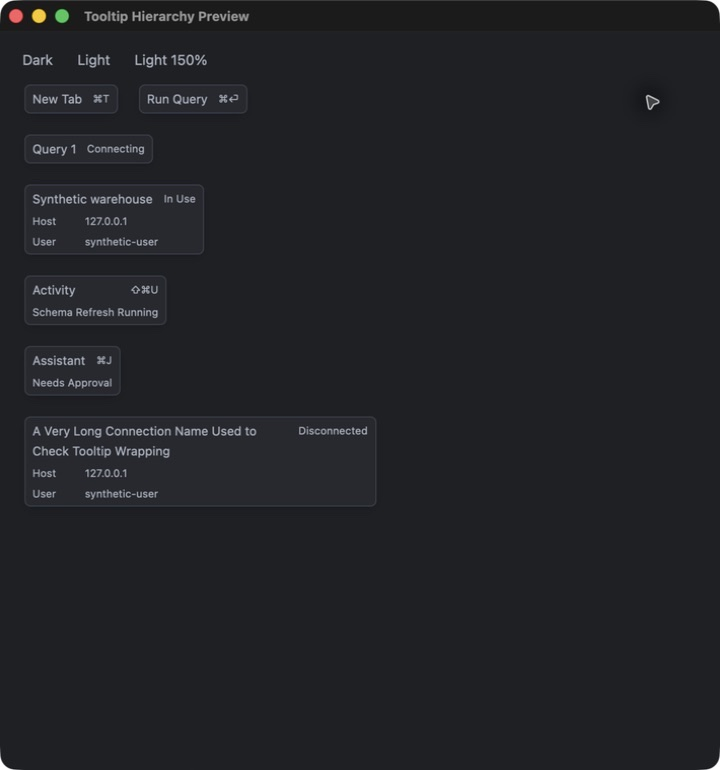
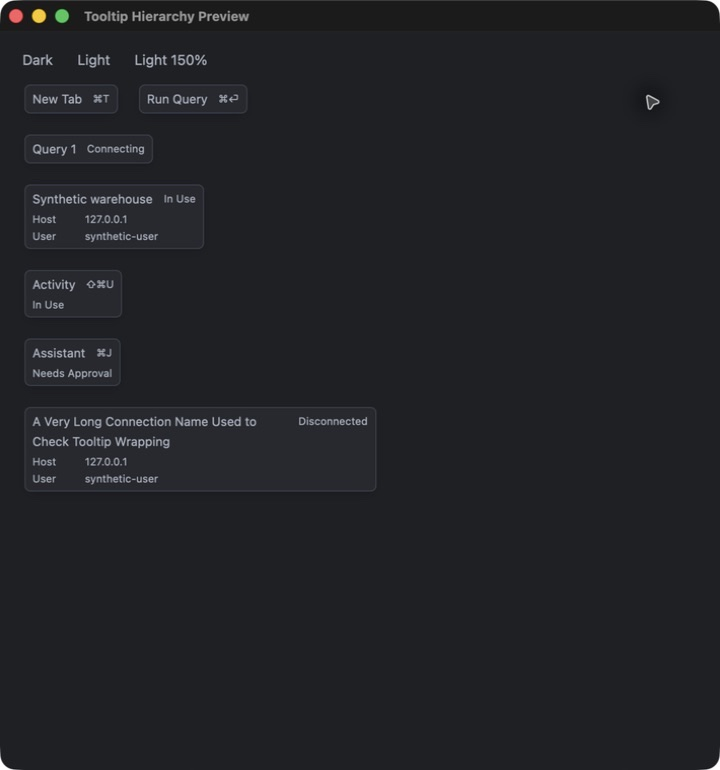
fix(ui): compact tooltips and summarize connections in use

Changed region(s): [[0.0306, 0.2805, 0.3667, 0.6545], [0.3972, 0.5299, 0.5194, 0.561]]

diff --git a/tests/ui/queries.rs b/tests/ui/queries.rs
@@ -58,6 +58,10 @@ fn connecting_dots_and_tooltips_follow_a_failed_session_open(cx: &mut TestAppCon
             label(window, format!("connection-status-{connection}")).as_deref(),
             Some("Connecting warehouse, connecting")
         );
+        assert_eq!(
+            label(window, "toggle-activity").as_deref(),
+            Some("Activity")
+        );
     });
     let hover = |id: String, app: &TestApp, cx: &mut TestAppContext| {
         app.update(cx, |window, cx| window.hover(id, cx));
@@ -130,6 +134,73 @@ fn long_connection_tooltips_align_status_and_fit_at_each_scale_and_theme(cx: &mu
             }
         });
     }
+}
+
+#[gpui_kit::test]
+fn activity_tooltip_summarizes_connections_in_use_and_updates_live(cx: &mut TestAppContext) {
+    use crate::support::assistant::{FakeCodex, REPLY_TIMEOUT};
+    use crate::support::offline_profile;
+    use qrow::model::SavedTab;
+
+    let (directory, codex) = FakeCodex::new();
+    let unused = offline_profile("Unused warehouse");
+    let profile = offline_profile("Assistant warehouse");
+    let connection = profile.id;
+    let tab = SavedTab::new(1, Some(connection));
+    let query = tab.id;
+    let app = TestApp::launch_in(
+        cx,
+        directory,
+        codex.workspace(Workspace {
+            tabs: vec![tab],
+            profiles: vec![profile, unused.clone()],
+            ..Workspace::default()
+        }),
+        MemoryCredentials::default(),
+    );
+    app.open_assistant(cx);
+    app.send(cx, "Title before first reply");
+    app.wait_until(cx, "the held reply", REPLY_TIMEOUT, |_, _| {
+        codex.marked("first-reply-pending")
+    });
+    app.wait_label(cx, "Activity, in use");
+    app.hover_labelled(cx, "Activity, in use");
+    cx.executor().advance_clock(Duration::from_millis(800));
+    app.settle(cx);
+    app.update(cx, |window, cx| {
+        assert_eq!(
+            label(window, "status-tooltip-status").as_deref(),
+            Some("In Use")
+        );
+        assert_connection_dot(window, connection, cx.theme().info);
+        assert_tab_dot(window, query, None);
+        assert_tooltip_header_center(window, cx, "status-tooltip-shortcut");
+    });
+
+    // An error on another connection keeps its count with the work summary.
+    app.qrow
+        .update(cx, |qrow, cx| {
+            qrow.record_activity(
+                unused.id,
+                ActivityEntry::new(Severity::Error, "Synthetic refresh error"),
+                cx,
+            );
+        })
+        .unwrap();
+    app.wait_until(
+        cx,
+        "the unread error and work",
+        REPLY_TIMEOUT,
+        |window, _| {
+            label(window, "status-tooltip-status").as_deref() == Some("1 Unread Error\nIn Use")
+        },
+    );
+
+    // Keep the pointer over Activity as the working connection becomes idle.
+    codex.mark("first-reply-release");
+    app.wait_until(cx, "the finished work", REPLY_TIMEOUT, |window, _| {
+        label(window, "status-tooltip-status").as_deref() == Some("1 Unread Error")
+    });
 }
 
 #[gpui_kit::test]

diff --git a/src/ui/catalog_tree.rs b/src/ui/catalog_tree.rs
@@ -1218,6 +1218,34 @@ impl Qrow {
         );
     }
 
+    /// The status shown by a connection row and summarized by Activity.
+    pub(super) fn connection_dot_status(&self, id: Uuid, cx: &App) -> Option<DotStatus> {
+        let query_status = self
+            .tabs
+            .iter()
+            .filter(|tab| tab.saved.profile == Some(id))
+            .filter_map(|tab| {
+                tab.dot_status().max(
+                    self.settings
+                        .assistant
+                        .enabled
+                        .then(|| self.tab_assistant_status(tab.saved.id))
+                        .flatten()
+                        .and_then(assistant_view::ThreadStatus::dot_status),
+                )
+            })
+            .max();
+        query_status.max(
+            if self.activity.read(cx).activity().unseen_errors_of(id) > 0 {
+                Some(DotStatus::Error)
+            } else if self.catalog.is_refreshing(id) {
+                Some(DotStatus::Working)
+            } else {
+                None
+            },
+        )
+    }
+
     /// The Connections sidebar: its header, the search, and the tree.
     pub(super) fn connections(&self, window: &Window, cx: &mut Context<Self>) -> impl IntoElement {
         let action_size = self.ui_px(STATUS_SLOT_WIDTH);
@@ -1229,29 +1257,7 @@ impl Qrow {
                     .map(|profile| {
                         let id = profile.id;
                         let refresh_error = self.catalog.connection_error(id);
-                        let unseen = self.activity.read(cx).activity().unseen_errors_of(id);
-                        let query_status = self
-                            .tabs
-                            .iter()
-                            .filter(|tab| tab.saved.profile == Some(id))
-                            .filter_map(|tab| {
-                                tab.dot_status().max(
-                                    self.settings
-                                        .assistant
-                                        .enabled
-                                        .then(|| self.tab_assistant_status(tab.saved.id))
-                                        .flatten()
-                                        .and_then(assistant_view::ThreadStatus::dot_status),
-                                )
-                            })
-                            .max();
-                        let status = query_status.max(if unseen > 0 {
-                            Some(DotStatus::Error)
-                        } else if self.catalog.is_refreshing(id) {
-                            Some(DotStatus::Working)
-                        } else {
-                            None
-                        });
+                        let status = self.connection_dot_status(id, cx);
                         let connected = self
                             .tabs
                             .iter()

diff --git a/tests/e2e/assistant.rs b/tests/e2e/assistant.rs
@@ -1,6 +1,9 @@
 use crate::support::assistant::{FakeCodex, approval, editor_text};
 use crate::support::fixture::{Kyuubi, QUERY_TIMEOUT};
-use crate::support::{TestApp, assert_tab_dot, assert_tooltip_header_center, bounds_of, label};
+use crate::support::{
+    TestApp, assert_tab_dot, assert_tooltip_header_center, assert_tooltip_metadata_rows, bounds_of,
+    label,
+};
 use gpui_kit::TestAppContext;
 use gpui_kit::component::ActiveTheme;
 use gpui_kit::test::TestWindowExt;
@@ -14,16 +17,33 @@ fn assistant_turns_leave_a_connected_query_tab_idle_until_sql_runs(cx: &mut Test
         Kyuubi::get().workspace("SELECT 1 AS value", crate::support::fixture::PASSWORD);
     workspace.tabs[0].title = "SQL only".into();
     let tab = workspace.tabs[0].id;
+    let connection = workspace.profiles[0].id;
     let dot = format!("query-status-{tab}");
     let app = TestApp::launch_in(cx, directory, codex.workspace(workspace), credentials);
     app.run_complete(cx, "SELECT 1 AS value");
     app.wait_cell(cx, 0, 1, "1");
+    app.update(cx, |window, cx| {
+        window.hover(format!("connection-status-{connection}"), cx);
+    });
+    cx.executor().advance_clock(Duration::from_millis(800));
+    app.settle(cx);
+    app.update(cx, |window, _| assert_tooltip_metadata_rows(window));
     app.open_assistant(cx);
     app.send(cx, "Title before first reply");
     app.wait_until(cx, "the held reply", QUERY_TIMEOUT, |_, _| {
         codex.marked("first-reply-pending")
     });
     app.wait_label(cx, "Toggle Assistant, working");
+    app.wait_label(cx, "Activity, in use");
+    app.hover_labelled(cx, "Activity, in use");
+    cx.executor().advance_clock(Duration::from_millis(800));
+    app.settle(cx);
+    app.update(cx, |window, _| {
+        assert_eq!(
+            label(window, "status-tooltip-status").as_deref(),
+            Some("In Use")
+        );
+    });
     app.update(cx, |window, cx| {
         assert_tab_dot(window, tab, Some(cx.theme().info.opacity(0.4)));
         assert_eq!(

diff --git a/src/ui/workspace_view.rs b/src/ui/workspace_view.rs
@@ -436,11 +436,10 @@ impl Qrow {
     fn activity_status(&self, cx: &App) -> (Option<DotStatus>, String, StatusTooltip) {
         let view = self.activity.read(cx);
         let unseen = view.activity().unseen_errors();
-        let refreshing = self
+        let in_use = self
             .profiles
             .iter()
-            .any(|profile| self.catalog.is_refreshing(profile.id));
-        let working = self.tabs.iter().any(|tab| tab.busy);
+            .any(|profile| self.connection_dot_status(profile.id, cx) == Some(DotStatus::Working));
         let unseen = unseen
             + self
                 .tabs
@@ -449,7 +448,7 @@ impl Qrow {
                 .count();
         let status = if unseen > 0 {
             Some(DotStatus::Error)
-        } else if refreshing || working {
+        } else if in_use {
             Some(DotStatus::Working)
         } else {
             None
@@ -462,13 +461,9 @@ impl Qrow {
                 if unseen == 1 { "Error" } else { "Errors" }
             ));
         }
-        if refreshing {
-            label.push_str(", schema refresh running");
-            statuses.push("Schema Refresh Running".into());
-        }
-        if working {
-            label.push_str(", query or session work running");
-            statuses.push("Query Work Running".into());
+        if in_use {
+            label.push_str(", in use");
+            statuses.push("In Use".into());
         }
         match unseen {
             0 => {}

diff --git a/tests/e2e/queries.rs b/tests/e2e/queries.rs
@@ -101,13 +101,7 @@ fn query_dots_keep_unread_results_until_their_own_tabs_show(cx: &mut TestAppCont
                 .unwrap()
                 .contains("connecting")
         );
-        assert!(
-            window
-                .find("toggle-activity")
-                .label()
-                .unwrap()
-                .contains("work running")
-        );
+        assert_eq!(window.find("toggle-activity").label(), Some("Activity"));
         let second = crate::support::labelled(window, "Query 2").unwrap();
         crate::support::click_element(window, &second, cx);
     });
@@ -213,7 +207,10 @@ fn a_query_result_hidden_by_activity_stays_unread(cx: &mut TestAppContext) {
         cx,
         "the completed hidden query",
         QUERY_TIMEOUT,
-        |window, _| window.find("toggle-activity").label() == Some("Activity"),
+        |window, _| {
+            label(window, format!("query-status-{first}"))
+                .is_some_and(|status| status.contains("unread query result"))
+        },
     );
     app.dispatch(cx, qrow::ui::NewTab);
     app.press(cx, "escape");

diff --git a/tests/native/tooltip_layout.rs b/tests/native/tooltip_layout.rs
@@ -9,8 +9,8 @@ fn main() {
     use qrow::model::{SavedTab, Workspace};
     use std::time::Duration;
     use support::{
-        MemoryCredentials, TestApp, assert_tooltip_header_center, assistant::FakeCodex, bounds_of,
-        label, offline_profile,
+        MemoryCredentials, TestApp, assert_tooltip_header_center, assert_tooltip_metadata_rows,
+        assistant::FakeCodex, bounds_of, label, offline_profile,
     };
 
     let text_system = gpui_kit::platform::current_platform(true).text_system();
@@ -67,6 +67,9 @@ fn main() {
                             Some(title)
                         );
                         assert_tooltip_header_center(window, cx, secondary);
+                        if title == name {
+                            assert_tooltip_metadata_rows(window);
+                        }
                         let popup = bounds_of(window, "status-tooltip");
                         for id in ["status-tooltip-title", secondary] {
                             let text = bounds_of(window, id);

diff --git a/tests/ui/metadata.rs b/tests/ui/metadata.rs
@@ -1,5 +1,8 @@
 //! Related values have separate layout and accessible names.
-use crate::support::{TestApp, assert_tooltip_header_center, bounds_of, label, offline_profile};
+use crate::support::{
+    TestApp, assert_tooltip_header_center, assert_tooltip_metadata_rows, bounds_of, label,
+    offline_profile,
+};
 use gpui_kit::test::TestWindowExt;
 use gpui_kit::{TestAppContext, px, size};
 use qrow::model::{SavedTab, Workspace};
@@ -118,9 +121,6 @@ fn shortcuts_and_connection_fields_use_tooltip_parts(cx: &mut TestAppContext) {
             label(window, "status-tooltip-User").as_deref(),
             Some("User: synthetic · user")
         );
-        let host = bounds_of(window, "status-tooltip-Host");
-        let user = bounds_of(window, "status-tooltip-User");
-        assert_eq!(host.left(), user.left());
-        assert!(user.top() >= host.bottom());
+        assert_tooltip_metadata_rows(window);
     });
 }

diff --git a/src/ui/status_tooltip.rs b/src/ui/status_tooltip.rs
@@ -158,7 +158,7 @@ impl StatusTooltip {
                 .test_support()
                 .max_w_96()
                 .whitespace_normal()
-                .gap_1()
+                .gap_0p5()
                 .child(
                     h_flex()
                         .min_w_0()
@@ -179,7 +179,7 @@ impl StatusTooltip {
                         v_flex()
                             .id("status-tooltip-metadata")
                             .test_support()
-                            .gap_1()
+                            .gap_0()
                             .children(content.metadata.iter().map(|(label, value)| {
                                 h_flex()
                                     .id(SharedString::from(format!("status-tooltip-{label}")))

diff --git a/tests/support/mod.rs b/tests/support/mod.rs
@@ -146,6 +146,18 @@ pub fn assert_tooltip_header_center(window: &mut Window, cx: &App, secondary: &s
     );
 }
 
+/// Connection fields stack without an extra blank spacer between rows.
+pub fn assert_tooltip_metadata_rows(window: &Window) {
+    let host = bounds_of(window, "status-tooltip-Host");
+    let user = bounds_of(window, "status-tooltip-User");
+    assert_eq!(host.left(), user.left());
+    assert_eq!(
+        host.bottom(),
+        user.top(),
+        "metadata rows have an extra spacer"
+    );
+}
+
 /// The labels of every observed element, for failure messages.
 pub fn labels(window: &Window) -> Vec<String> {
     let mut labels: Vec<_> = elements(window)

diff --git a/tests/e2e/blocking.rs b/tests/e2e/blocking.rs
@@ -152,10 +152,7 @@ fn a_retry_clears_the_error_badge(cx: &mut TestAppContext) {
         cx,
         "the retry without an unread error",
         QUERY_TIMEOUT,
-        |window, _| {
-            window.find("toggle-activity").label()
-                == Some("Activity, query or session work running")
-        },
+        |window, _| window.find("toggle-activity").label() == Some("Activity, in use"),
     );
     app.wait_until(cx, "the retry error", QUERY_TIMEOUT, |window, _| {
         window.find("toggle-activity").label() == Some("Activity, 1 unseen error")

diff --git a/docs/testing.md b/docs/testing.md
@@ -245,6 +245,12 @@ The servers keep the Spark engine of a user for 10 minutes after its last
 session, so tests that follow each other do not wait for an engine start.
 The Spark worker has room for one engine and two executor cores.
 
+Catalog tests and assistant tests that read live columns run one at a time
+in the same test group. Each test uses a unique schema name. Spark lists all
+schemas before Qrow applies a connection's catalog filter. If another test
+drops a schema during that list, the catalog request can fail. Other E2E
+tests can run at the same time.
+
 The Docker runtime binds ports to loopback, and each run gets its own
 Compose project and network. The servers write the execution evidence to a
 directory in the artifacts of the fixture, and tests read the files there.
@@ -509,6 +515,10 @@ fn query_rows_reach_the_results_table(cx: &mut TestAppContext) {
   cores, so put a test that holds executors in the `blocking` module, where
   tests run one at a time. A test that stops or restarts a server belongs in
   the `backend` suite.
+- Use a unique schema name for catalog tests. Put tests that create, drop,
+  or read fixture schemas in the catalog test group of the
+  [nextest profiles](../.config/nextest.toml). Update the group's filter when
+  you add a test outside the `catalog` module.
 - Check the result that a user can see. The `backend` suite checks the
   contract with the servers, for example that Spark stops a cancelled task
   in 10 seconds. Do not check it again in an E2E test.

diff --git a/docs/activity.md b/docs/activity.md
@@ -66,12 +66,14 @@ An unread tab error stays until the Logs of that tab show. Use **Show Tab**
 to open the tab. The Activity entry keeps its error color after the error
 becomes seen.
 
-A blue dot means that query or session work continues, or a schema refresh
-runs or waits. An unread error takes priority over work. The tooltip shows
+A blue dot means that at least one connection shows **In Use**. This includes
+query or session work, schema refreshes, and assistant turns. An unread error
+takes priority over work. The tooltip shows
 **Activity** and its keyboard shortcut on the first line.
 The name and shortcut share a vertical center.
-Short status lines below it give the error count and the work that continues.
-These lines use secondary text, also when the dot is red. Activity has no
+The status below it shows **In Use** while a connection shows that status.
+Otherwise, the status shows **Idle**. Unread errors add their count and replace
+**Idle**. These lines use secondary text, also when the dot is red. Activity has no
 green completion dot.
 
 ## Limits
